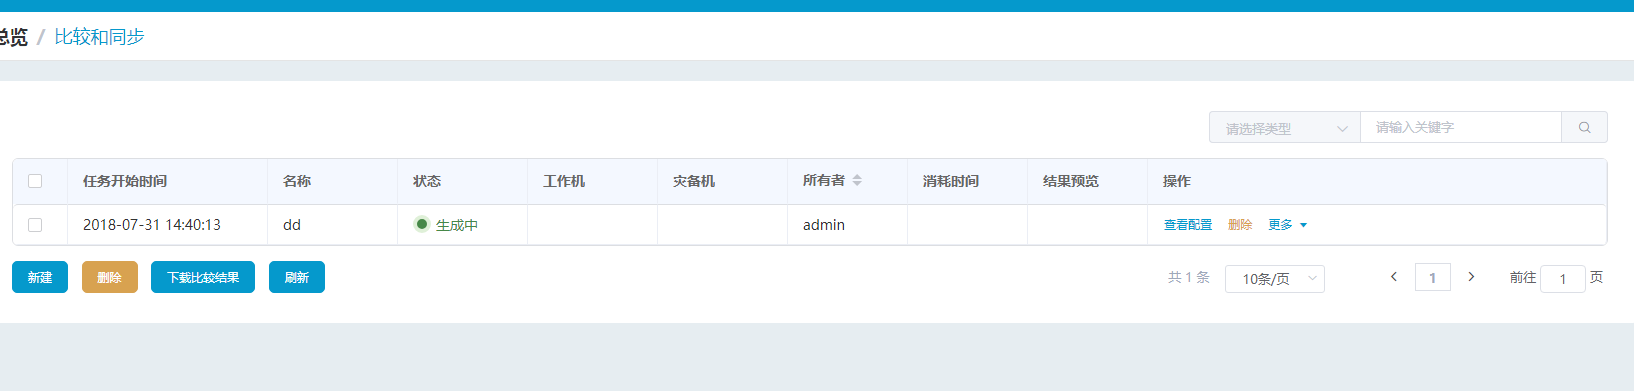
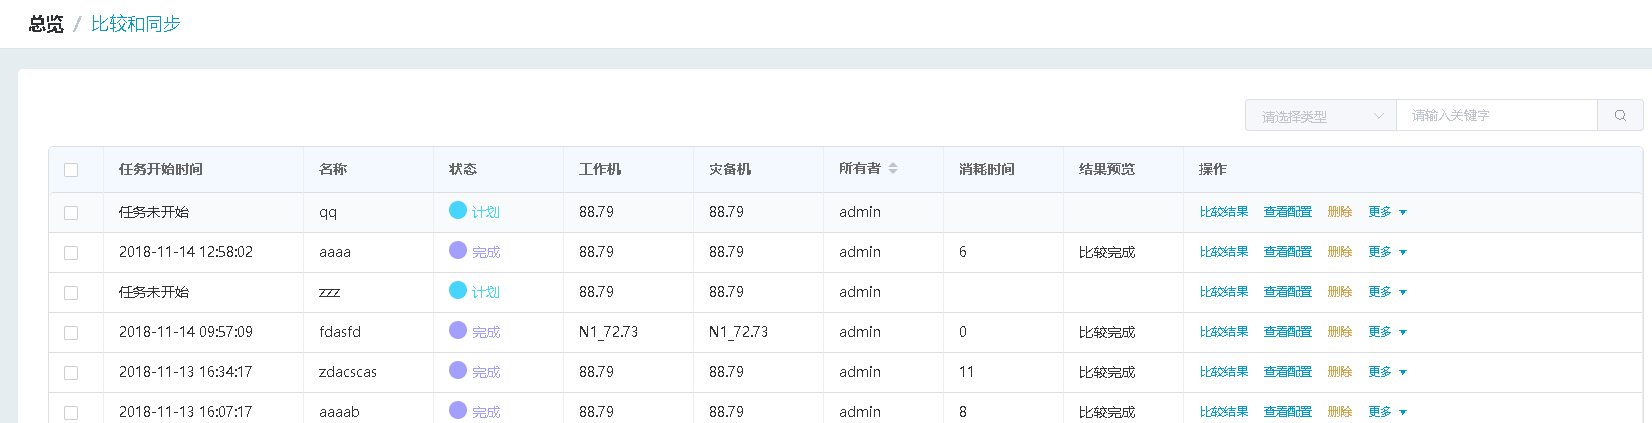
[IM]:比较与同步 用户手册更新

diff --git a/utilities/consistency_comparison.md b/utilities/consistency_comparison.md
@@ -31,11 +31,8 @@
 
 ### 比较结果 {#-2}
 
-结果如下：
+通过点击“比较结果”查看结果如下：
 
-![](/assets/V6.145048.png)
+![](/assets/v7.0.20181114007.png)
 
-详细比较日志：
-
-![](/assets/V6.145059.png)
 
